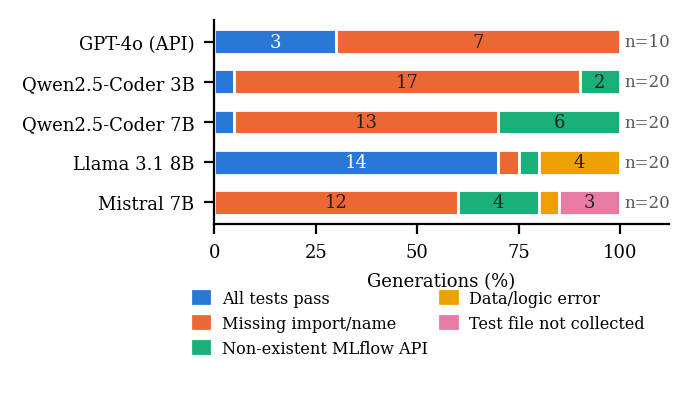
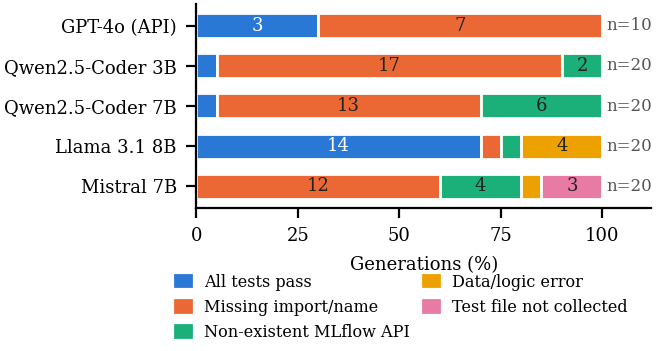
Fig. 1: tight bounding box

Changed region(s): [[0.0, 0.0, 1.0, 0.9687], [0.6402, 0.8547, 0.9756, 0.9117]]

diff --git a/scripts/make_figure_icista.py b/scripts/make_figure_icista.py
@@ -42,5 +42,5 @@ handles = [plt.Rectangle((0, 0), 1, 1, color=c) for _, _, c in CATS]
 ax.legend(handles, [n for _, n, _ in CATS], frameon=False, fontsize=5.8, ncol=2, loc="upper center",
           bbox_to_anchor=(0.45, -0.25), handlelength=1.0, columnspacing=0.8)
 fig.tight_layout()
-fig.savefig("../figures/fig1.pdf"); fig.savefig("../figures/fig1.png", dpi=200)
+fig.savefig("../figures/fig1.pdf", bbox_inches="tight", pad_inches=0.02); fig.savefig("../figures/fig1.png", dpi=200, bbox_inches="tight", pad_inches=0.02)
 print("saved ../figures/fig1.pdf")
